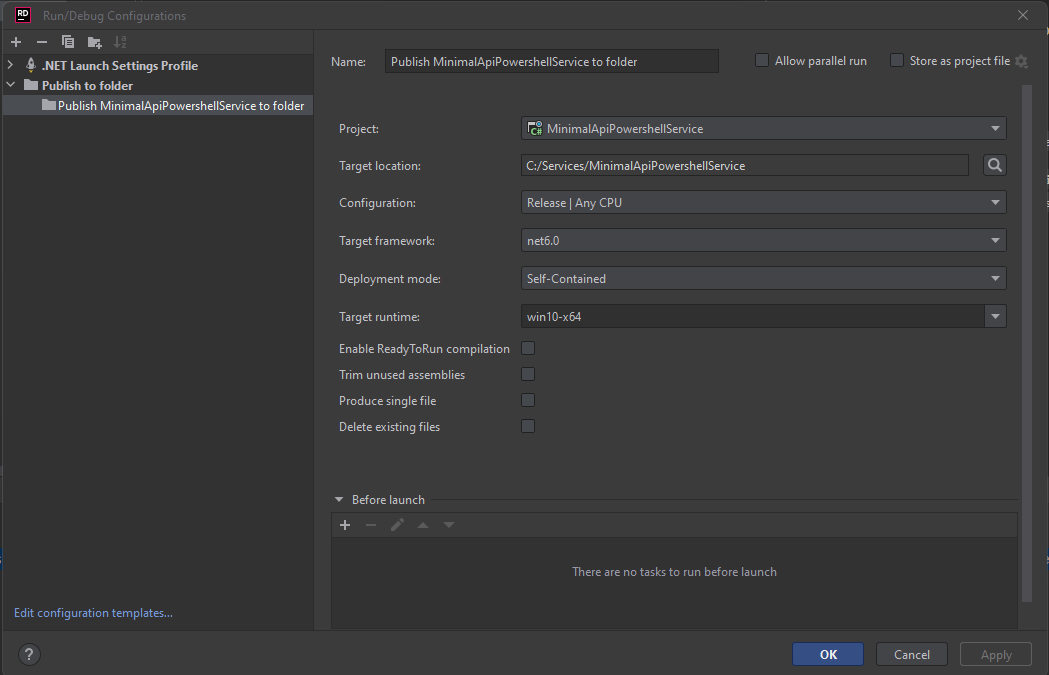
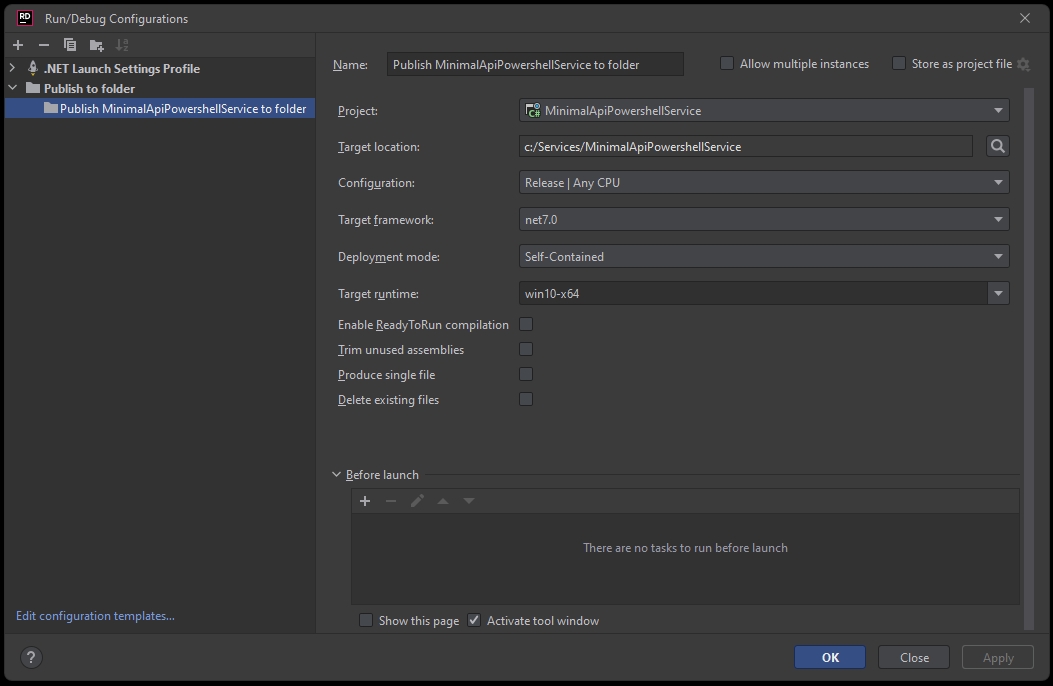
Update readme

diff --git a/readme.md b/readme.md
@@ -1,5 +1,5 @@
-# Dotnet 6 PowerShell Service
-A sample project to run PowerShell in a Dotnet 6 windows service.
+# Dotnet 7 PowerShell Service
+A sample project to run PowerShell in a Dotnet 7 windows service.
 
 This simple project shows running PowerShell commands from a windows 
 service that are activated by a GET request on an API. The service passes
@@ -9,7 +9,12 @@ c:\temp. Windows event logging has been enabled in ``appsettings.json``
 
 It is import to target a specific OS in the configuration. Targeting 
 generic win-64 will not work. At this time, single file publishing also 
-does not work. 
+does not work.
+
+### Configure
+The port used by the service is specified in ``appsettings.json``. Note that different ports are configured in ``appsettings.Development.json``.
+In addition, 
+
 ### Publish
 To publish the project, mark the project as self contained and target 
 the specific OS runtime. Generic win-x64 will fail.
@@ -21,13 +26,16 @@ This is the publishing profile in Rider:
 
 ### Create a service
 Finally, create a service on your windows system using this command:
+
 ``sc create "MinimalApiPowershellService" binpath="c:\Services\MinimalApiPowershellService\MinimalApiPowershellService.exe"``
+![Create the service](serviceCreate.png)
 
 Once the service is created you can start it right away, or configure it 
-to run under specific user context. Make sure to check the permissions 
+to run under specific user context. When running under a specific user context, make sure to check the permissions 
 for this user.
 
 ### Test
 With the service running you can test it by connecting to 
-http://localhost:5000 from a web browser or a PowerShell 
-command ``Invoke-WebRequest -Uri "http://localhost:5000"``
+http://localhost:5400 from a web browser or a PowerShell 
+command ``Invoke-WebRequest -Uri "http://localhost:5400"``
+![Results from the service running](serviceResults.png)
